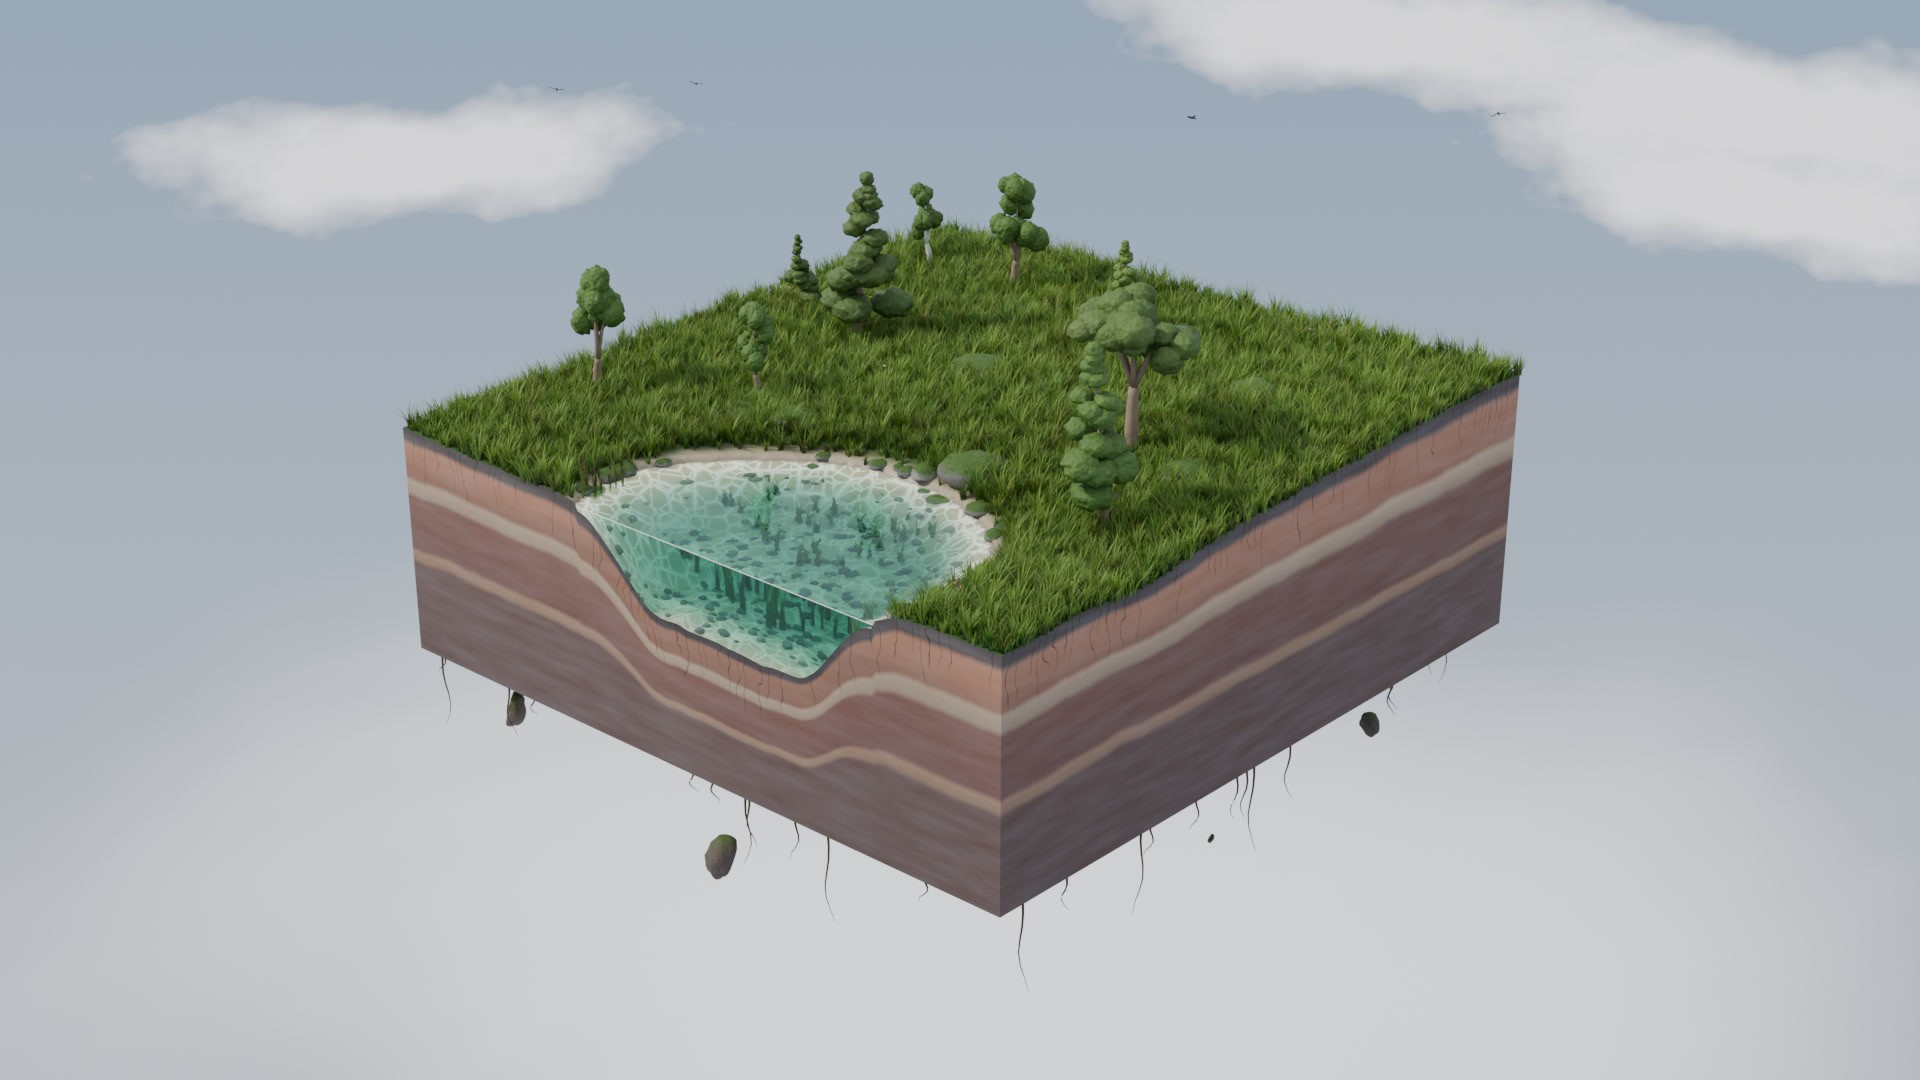
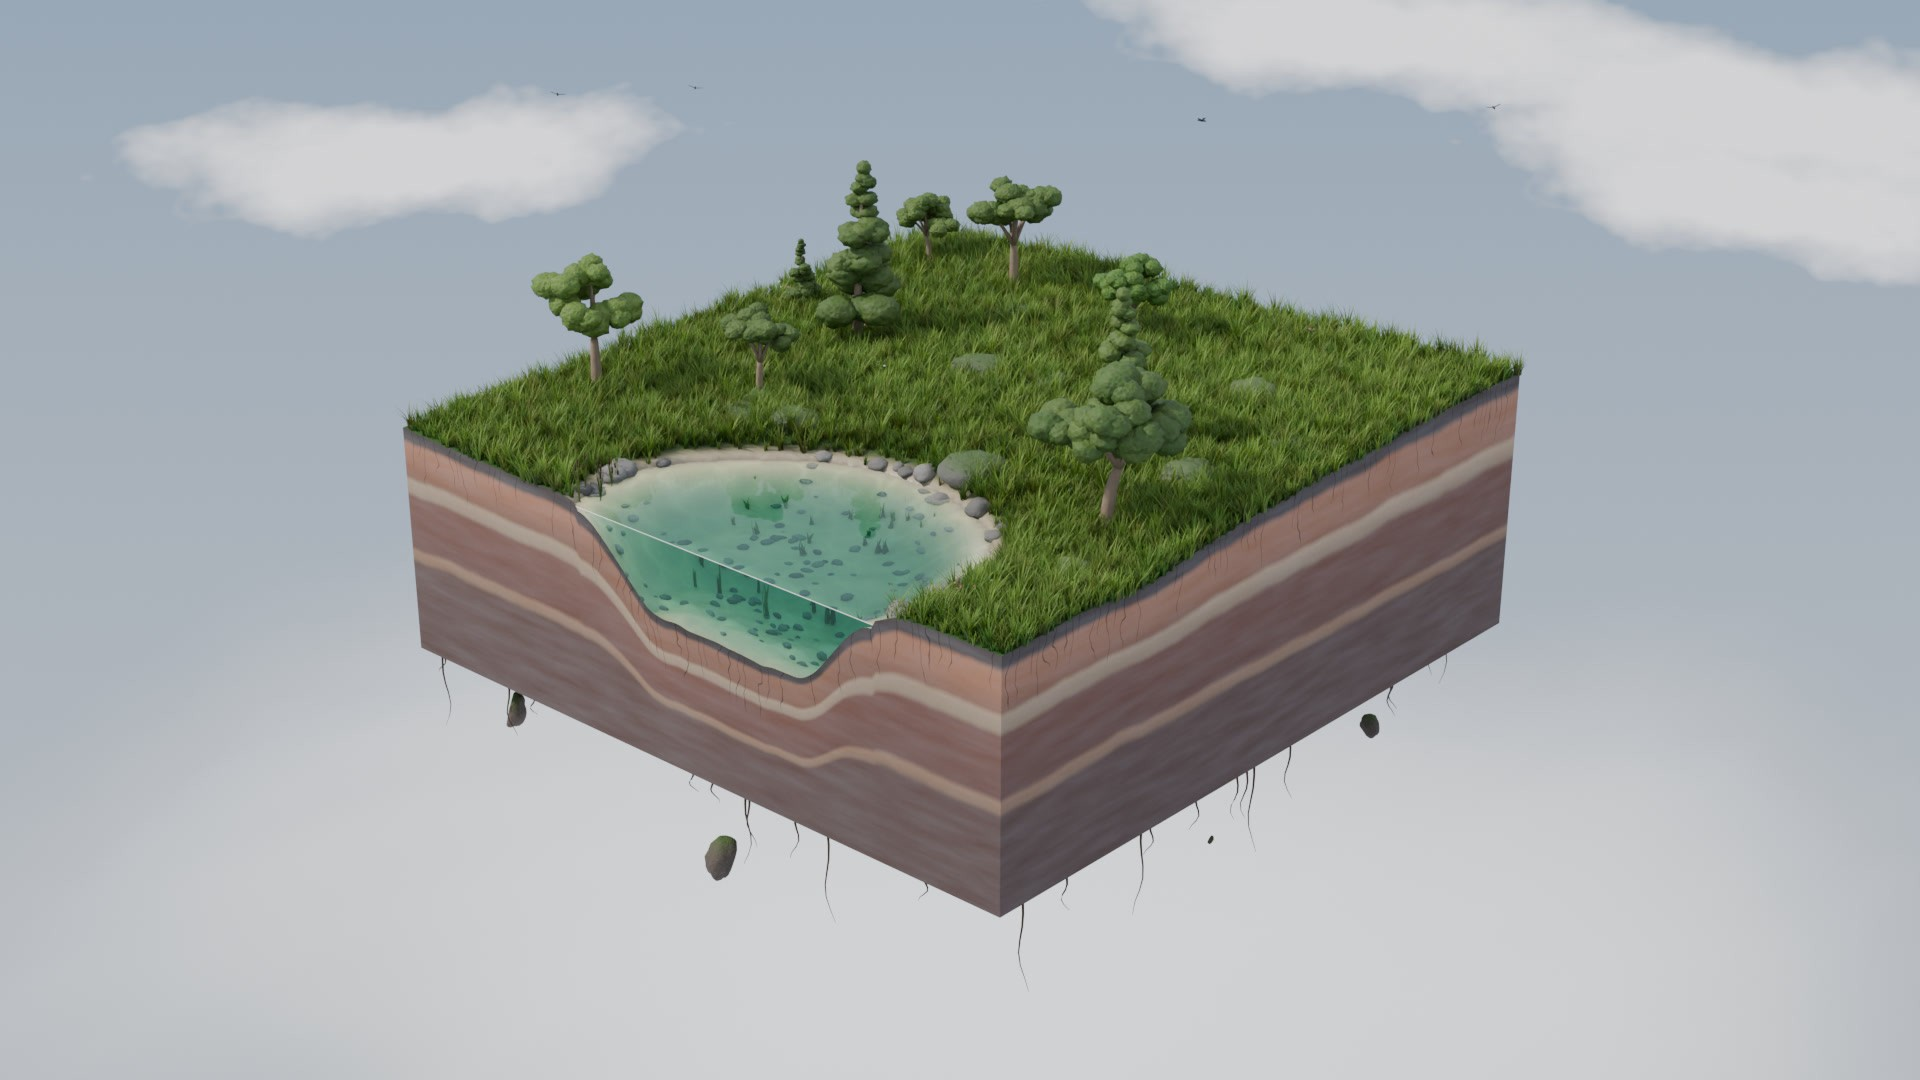
Cutaway board: A studio block and B floating island with calm clear water (1920x1080, 128 spp)
Claude-Session: https://claude.ai/code/session_01CmrfyBEQR6D43ePLhNBsAa

Changed region(s): [[0.3438, 0.1528, 0.6875, 0.4889], [0.2812, 0.4278, 0.5312, 0.6111], [0.2812, 0.2139, 0.3438, 0.3361]]

diff --git a/films/styles/cutaway/cinematic/blender.py b/films/styles/cutaway/cinematic/blender.py
@@ -66,7 +66,7 @@ def build(bpy, ctx):
         cw.lamp(kit, land, x, y, name=f'cw_lamp{k}')
 
     rig = ex.cine_light(kit, land, SUN_AZ, SUN_EL, sun=6.0, fill=0.6, amb=0.2)
-    ex.atmosphere(kit, land, haze=float(os.environ.get('EX_HAZE', 0.12)), fog=3.6, aniso=0.7)
+    ex.atmosphere(kit, land, haze=float(os.environ.get('EX_HAZE', 0.12)), fog=float(os.environ.get('EX_FOG', 3.6)), fog_top=float(os.environ.get('EX_FOGTOP', 0.11)), aniso=0.7)
     ex.gobo(kit, land, rig['sun_dir'])
     # the hero tree: the big round tree by the mill sits right in front of the sun from the hero camera (rays round its crown)
     T = np.asarray(land.trees); k = int(np.argmin(np.hypot(T[:, 0] - 1.33, T[:, 1] + 0.88))); gz = float(land.height(T[k:k + 1, 0], T[k:k + 1, 1])[0])
